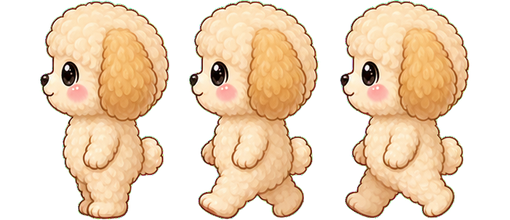
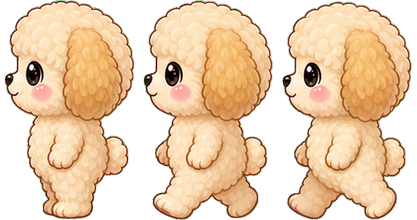
Close the punch gap, fix walk drift, and guard multi-tab saves
자체 검증 루프 1회차 결과물:

허공 펀치 제거 — 교전 대형
- 전진 중엔 왼쪽 대형, 교전이 시작되면 파티가 적 앞까지 다가선다
  (.field.engaged: 몹 hero 38%·f1 25%·f2 14% / 보스 17%·7%·-2%, .45s 전이)
- 375px 실측으로 캘리브레이션: 정지 시 몹과 11px — 닿을 듯, 타격 순간만 파고든다
- 돌진 거리 46→58px. 전경 띠 15%→10% (캐릭터 발이 잠기던 문제)

걷기 미끄러짐 제거 — 워크 스트립 재추출
- 원본 시트의 프레임이 시트 안에서 좌로 26~40px 흘러 있어(codex 분석에서 발견)
  공통 bbox 추출로는 걸을 때마다 캐릭터가 미끄러졌다 튕겨 돌아왔다
- 프레임별 트림 → 가로 중앙·바닥 정렬 → 균일 셀로 재조립(토끼/병아리/라떼/민트),
  frameW 갱신(151/165/139/202)

멀티탭 세이브 가드
- 두 탭이 5초마다 같은 세이브를 번갈아 덮어쓰면 진행이 조용히 사라진다.
  내가 마지막으로 쓴 시각보다 새로운 저장이 발견되면 이 탭을 일시정지하고
  덮어쓰지 않는다 (엔진 무변경, persist/restore 계층에서 처리)

검증: balance 35 + ui-contract 8 통과, 브라우저 실측(교전 간격·스트립 3프레임 정합·
frameW 일치·가드 토스트 발화). 숨은 창에서는 CSS 전이가 얼어붙어 computed 측정이
무효라는 함정도 확인 — transition 해제 후 목표값 검증으로 우회

diff --git a/games/mallang-idle/game.js b/games/mallang-idle/game.js
@@ -871,6 +871,9 @@
         n.classList.toggle('walking', walking);
         n.classList.toggle('fighting', !walking);
       });
+      // 교전 대형 — 적에게 다가선다 (멀리서 허공 펀치 금지)
+      el.field.classList.toggle('engaged', !walking);
+      el.field.classList.toggle('vs-boss', phase === Combat.PHASE_BOSS);
     }
 
     if (walking) {
@@ -1031,12 +1034,33 @@
 
   // ── 저장 ────────────────────────────────────────────────────
   /* 리셋 직후에는 저장을 막는다 — Reset 이 키를 지우고 reload 하는 사이에
-   * pagehide 의 persist 가 세이브를 되살리는 경합이 실제로 있었다. */
+   * pagehide 의 persist 가 세이브를 되살리는 경합이 실제로 있었다.
+   *
+   * 멀티탭 가드: 두 탭이 같은 세이브를 5초마다 번갈아 덮어쓰면 한쪽 진행이
+   * 조용히 사라진다. 내가 마지막으로 쓴 시각(lastWroteAt)보다 새로운 저장이
+   * 발견되면 다른 탭이 이어받은 것이다 — 이 탭은 일시정지하고 덮어쓰지 않는다. */
   var suppressPersist = false;
+  var lastWroteAt = 0;
+  function otherTabTookOver() {
+    var raw = null;
+    try { raw = localStorage.getItem(Save.STORAGE_KEY); } catch (e) { return false; }
+    if (!raw || !lastWroteAt) return false;
+    var m = /"lastSaveAt"\s*:\s*(\d+)/.exec(raw);
+    return !!(m && Number(m[1]) > lastWroteAt);
+  }
   function persist() {
     if (suppressPersist) return;
-    try { localStorage.setItem(Save.STORAGE_KEY, Save.dump(state, Date.now())); }
-    catch (e) { /* 저장 불가 — 진행은 계속한다 */ }
+    if (otherTabTookOver()) {
+      suppressPersist = true;
+      gameStarted = false;
+      toast('다른 탭에서 게임이 열렸어요 — 이 탭은 쉬어갈게요', 'fail');
+      return;
+    }
+    var now = Date.now();
+    try {
+      localStorage.setItem(Save.STORAGE_KEY, Save.dump(state, now));
+      lastWroteAt = now;
+    } catch (e) { /* 저장 불가 — 진행은 계속한다 */ }
   }
 
   function restore() {
@@ -1056,7 +1080,10 @@
     state = res.state;
 
     var lastAt = res.save && res.save.lastSaveAt;
-    if (lastAt) grantOffline((Date.now() - lastAt) / 1000);
+    if (lastAt) {
+      lastWroteAt = lastAt;      // 멀티탭 가드 기준점 — 이 시각 이후의 타 탭 저장을 감지
+      grantOffline((Date.now() - lastAt) / 1000);
+    }
   }
 
   /* 자리를 비운 시간만큼 골드를 지급한다. 지급과 팝업 노출은 분리한다 —

diff --git a/games/mallang-idle/style.css b/games/mallang-idle/style.css
@@ -128,9 +128,18 @@ body {
   background-position: 0 0;
   background-repeat: no-repeat;
 }
+/* 위치 — 전진 중엔 왼쪽 대형, 교전이 시작되면 적 앞까지 다가선다.
+ * 멀리서 허공에 펀치하는 그림을 막는 핵심 규칙. 보스는 몸집이 커서 덜 붙는다. */
+.hero, .follower { transition: left .45s cubic-bezier(.3, .8, .4, 1); }
 .hero { left: 17%; --sc: .40; z-index: 2; }
 .follower.f1 { left: 7%;  --sc: .30; bottom: 2px; z-index: 1; opacity: .96; }
 .follower.f2 { left: -1%; --sc: .26; bottom: 4px; z-index: 0; opacity: .92; }
+.field.engaged .hero { left: 38%; }
+.field.engaged .follower.f1 { left: 25%; }
+.field.engaged .follower.f2 { left: 14%; }
+.field.engaged.vs-boss .hero { left: 17%; }
+.field.engaged.vs-boss .follower.f1 { left: 7%; }
+.field.engaged.vs-boss .follower.f2 { left: -2%; }
 
 /* 접지 그림자 — 스프라이트가 공중에 뜬 느낌을 없앤다 */
 .hero::after, .follower::after {
@@ -197,8 +206,8 @@ body {
 .hero.strike { animation: heroStrike .24s cubic-bezier(.3, 1.4, .6, 1) !important; }
 @keyframes heroStrike {
   0%   { transform: scale(var(--sc, .40)) translateX(0); }
-  38%  { transform: scale(var(--sc, .40)) translateX(46px) rotate(4deg) scaleY(.96); }
-  62%  { transform: scale(var(--sc, .40)) translateX(38px) rotate(2deg) scaleY(1.04); }
+  38%  { transform: scale(var(--sc, .40)) translateX(58px) rotate(4deg) scaleY(.96); }
+  62%  { transform: scale(var(--sc, .40)) translateX(46px) rotate(2deg) scaleY(1.04); }
   100% { transform: scale(var(--sc, .40)) translateX(0); }
 }
 
@@ -617,7 +626,7 @@ body {
 .fg-layer {
   position: absolute;
   left: 0; right: 0; bottom: 0;
-  height: 15%;
+  height: 10%;   /* 15% 는 캐릭터 발과 몸 아래를 가렸다 — 발목까지만 잠기게 */
   background-repeat: repeat-x;
   background-position: 0 bottom;
   background-size: auto 100%;

diff --git a/games/mallang-idle/data/characters.js b/games/mallang-idle/data/characters.js
@@ -22,7 +22,7 @@
   var CHARACTERS = [
     {
       id: 'rabbit', name: '모찌 토끼', unlockStage: 1,
-      walk: 'assets/hero-rabbit-walk.png', frameW: 187,
+      walk: 'assets/hero-rabbit-walk.png', frameW: 151,
       portrait: 'assets/portrait-rabbit.png',
       atk: 'assets/atk-rabbit.png', atkW: 265,
       skill: { key: 'atkMul', value: 0.20 },
@@ -31,7 +31,7 @@
     },
     {
       id: 'chick', name: '피치 병아리', unlockStage: 5,
-      walk: 'assets/hero-chick-walk.png', frameW: 176,
+      walk: 'assets/hero-chick-walk.png', frameW: 165,
       portrait: 'assets/portrait-chick.png',
       atk: 'assets/atk-chick.png', atkW: 301,
       skill: { key: 'aspdMul', value: 0.18 },
@@ -49,7 +49,7 @@
     },
     {
       id: 'latte', name: '라떼 퍼피', unlockStage: 30,
-      walk: 'assets/hero-latte-walk.png', frameW: 170,
+      walk: 'assets/hero-latte-walk.png', frameW: 139,
       portrait: 'assets/portrait-latte.png',
       atk: 'assets/atk-latte.png', atkW: 253,
       skill: { key: 'bossMul', value: 0.35 },
@@ -58,7 +58,7 @@
     },
     {
       id: 'mintcat', name: '민트 키튼', unlockStage: 50,
-      walk: 'assets/hero-mintcat-walk.png', frameW: 233,
+      walk: 'assets/hero-mintcat-walk.png', frameW: 202,
       portrait: 'assets/portrait-mintcat.png',
       atk: 'assets/atk-mintcat.png', atkW: 258,
       skill: { key: 'advanceMul', value: 0.40 },
